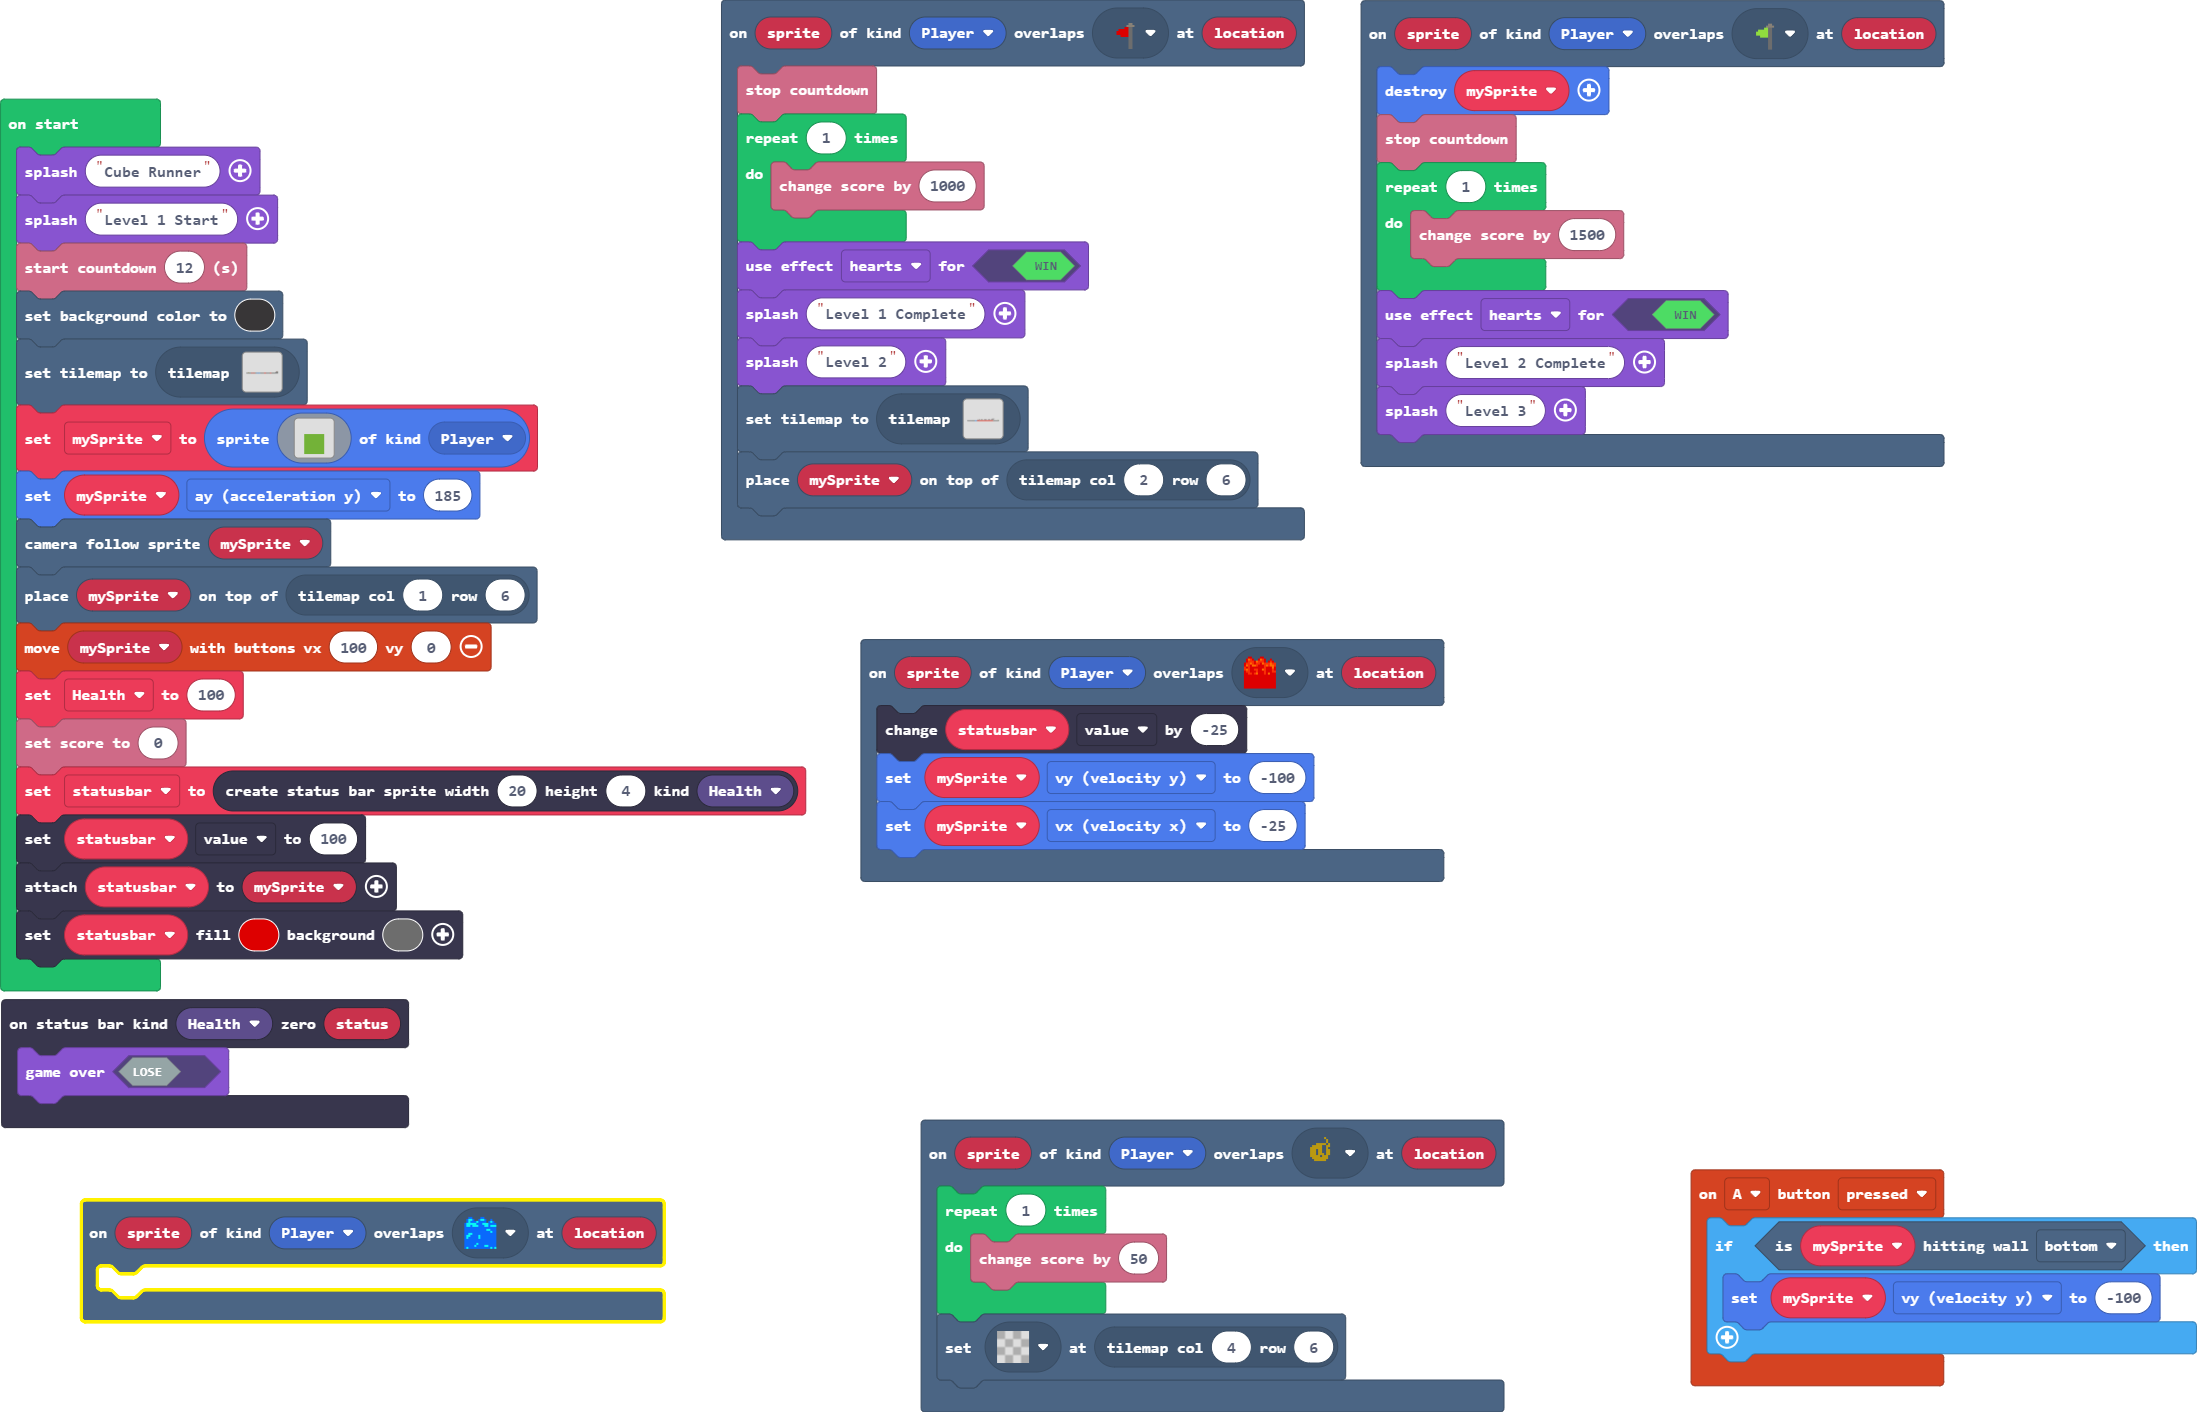
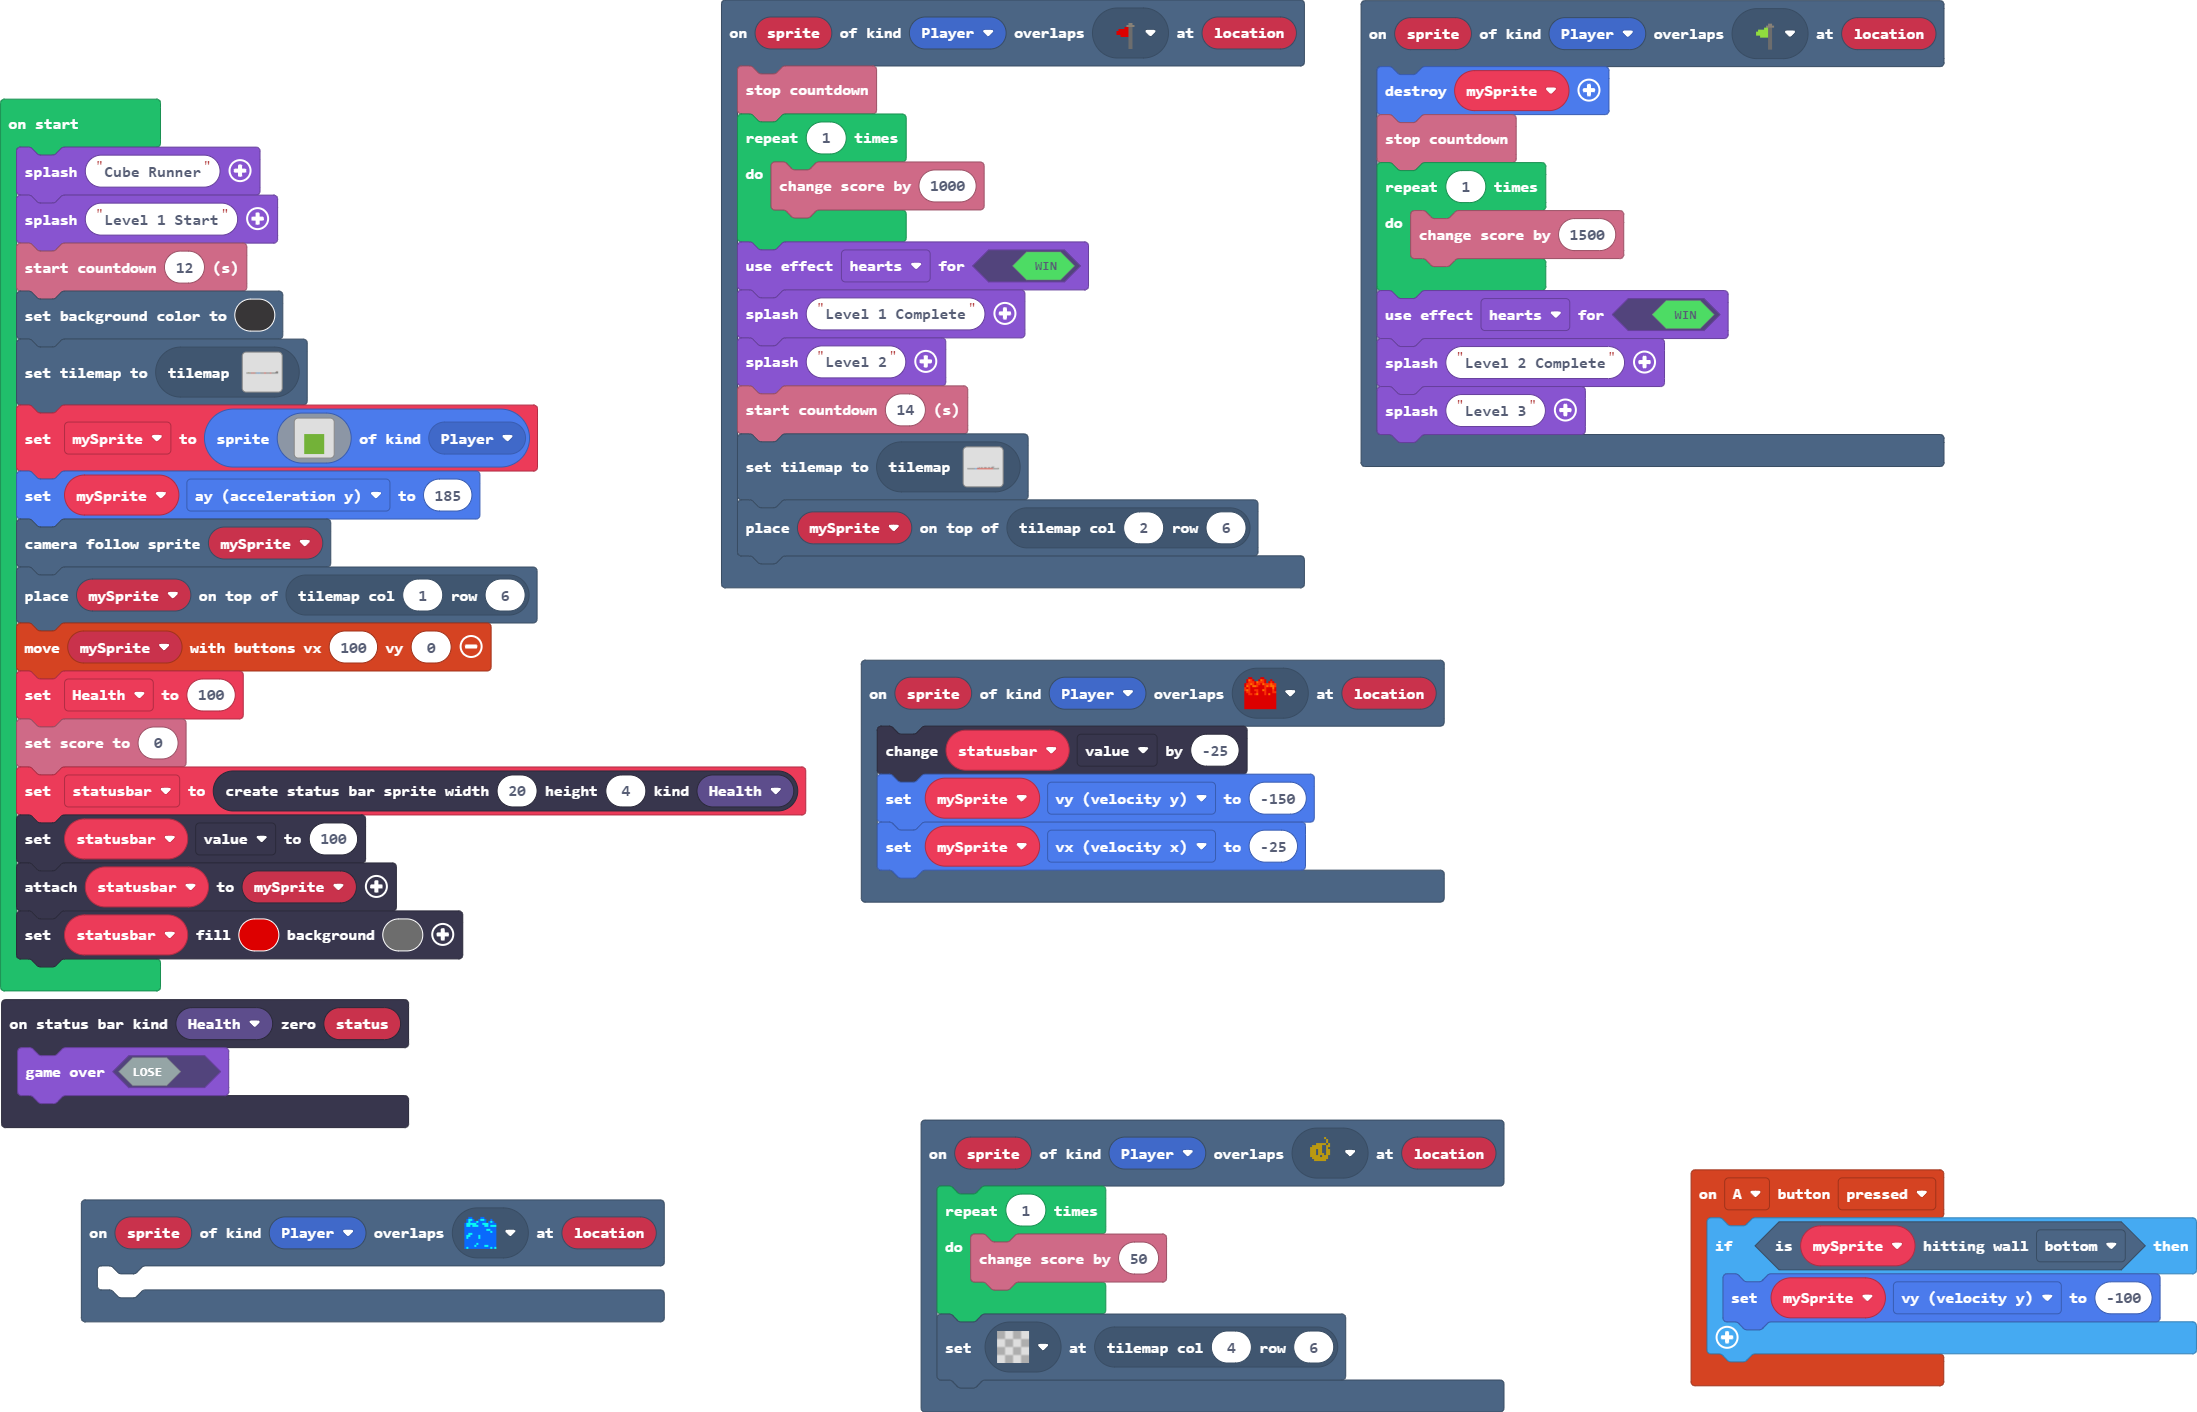
Timers updated for level 1 & 2

Changed region(s): [[0.3095, 0.2493, 0.6809, 0.6544], [0.2786, 0.8414, 0.3095, 0.9348], [0.031, 0.8414, 0.0619, 0.9348]]

diff --git a/main.ts b/main.ts
@@ -16,7 +16,7 @@ scene.onOverlapTile(SpriteKind.Player, assets.tile`Level2 Flag`, function (sprit
 })
 scene.onOverlapTile(SpriteKind.Player, assets.tile`myTile`, function (sprite, location) {
     statusbar.value += -25
-    mySprite.vy = -100
+    mySprite.vy = -150
     mySprite.vx = -25
 })
 controller.A.onEvent(ControllerButtonEvent.Pressed, function () {
@@ -38,6 +38,7 @@ scene.onOverlapTile(SpriteKind.Player, assets.tile`Level1 Flag`, function (sprit
     game.setGameOverEffect(true, effects.hearts)
     game.splash("Level 1 Complete")
     game.splash("Level 2")
+    info.startCountdown(14)
     tiles.setCurrentTilemap(tilemap`level0`)
     tiles.placeOnTile(mySprite, tiles.getTileLocation(2, 6))
 })
